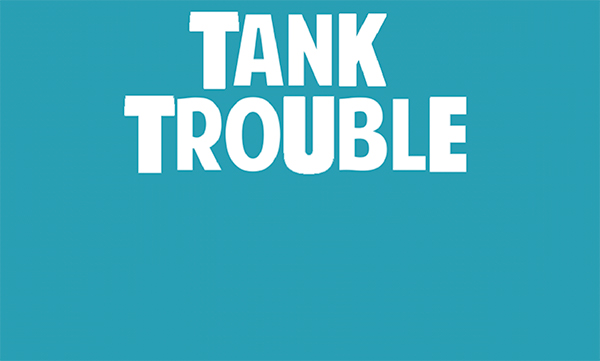
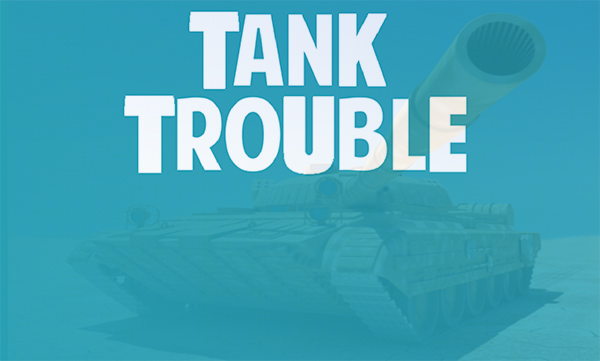
Change login frame background

diff --git a/src/graphic/LoginFrame.java b/src/graphic/LoginFrame.java
@@ -11,6 +11,7 @@ public class LoginFrame extends JFrame {
     JTextField passwordField;
     JCheckBox checkBox;
     JButton signUpButton;
+    JButton signInButton;
     public LoginFrame(){
         super("Login");
         setSize(600,360);
@@ -55,11 +56,19 @@ public class LoginFrame extends JFrame {
         signUpButton.setSize(90,20);
         signUpButton.setForeground(Color.darkGray);
 
-        add(label);
-        add(checkBox);
+
+        Icon signIn = new ImageIcon("Documents/images/signInBackground.jpg");
+        signInButton=new JButton(signIn);
+        signInButton.setLocation(20,20);
+        signInButton.setSize(70,21);
+        signInButton.setForeground(Color.white);
+
+        add(signInButton);
         add(userNameField);
         add(passwordField);
         add(signUpButton);
+        add(label);
+        add(checkBox);
 
     }
 

diff --git a/src/backCode/Main.java b/src/backCode/Main.java
@@ -31,7 +31,7 @@ public class Main {
                 GameFrame frame = new GameFrame("Simple Ball !");
                 frame.setLocationRelativeTo(null); // put frame at center of screen
                 frame.setDefaultCloseOperation(JFrame.EXIT_ON_CLOSE);
-                frame.setVisible(true);
+                frame.setVisible(false);
 
                 frame.initBufferStrategy();
                 // Create and execute the game-loop
